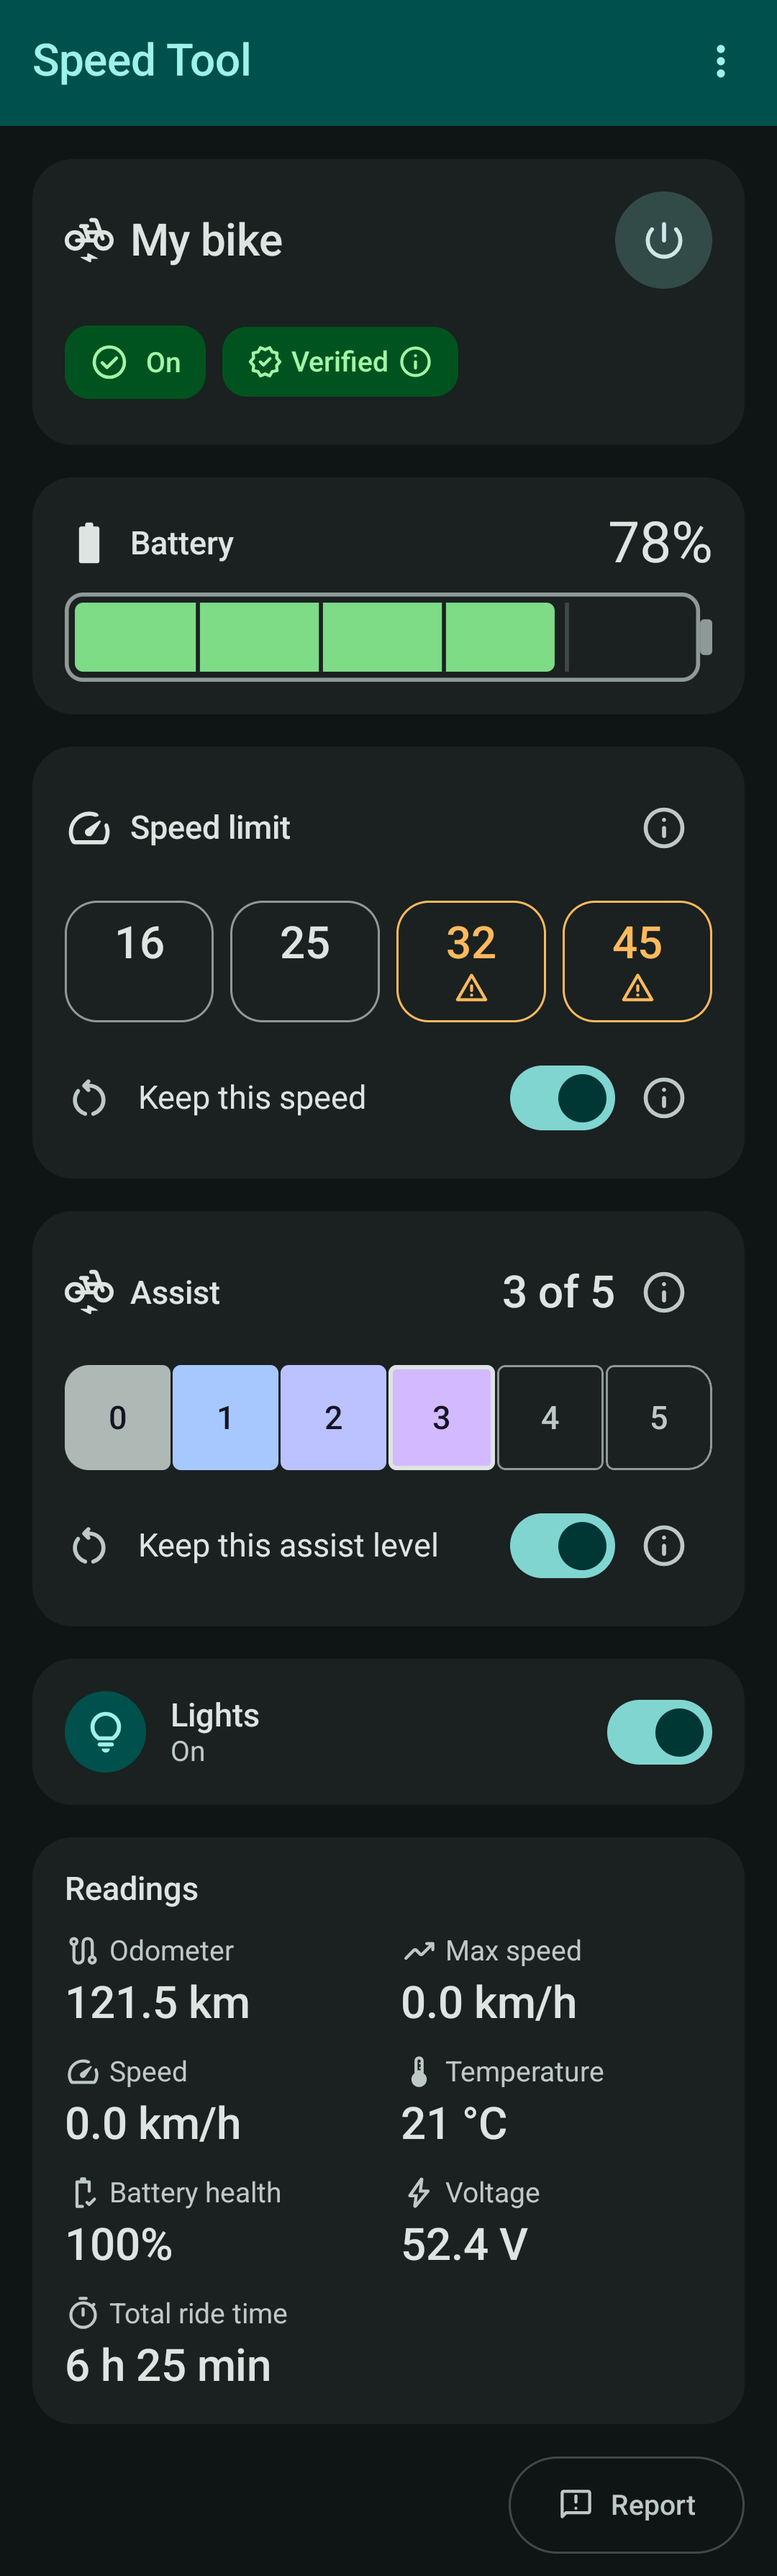
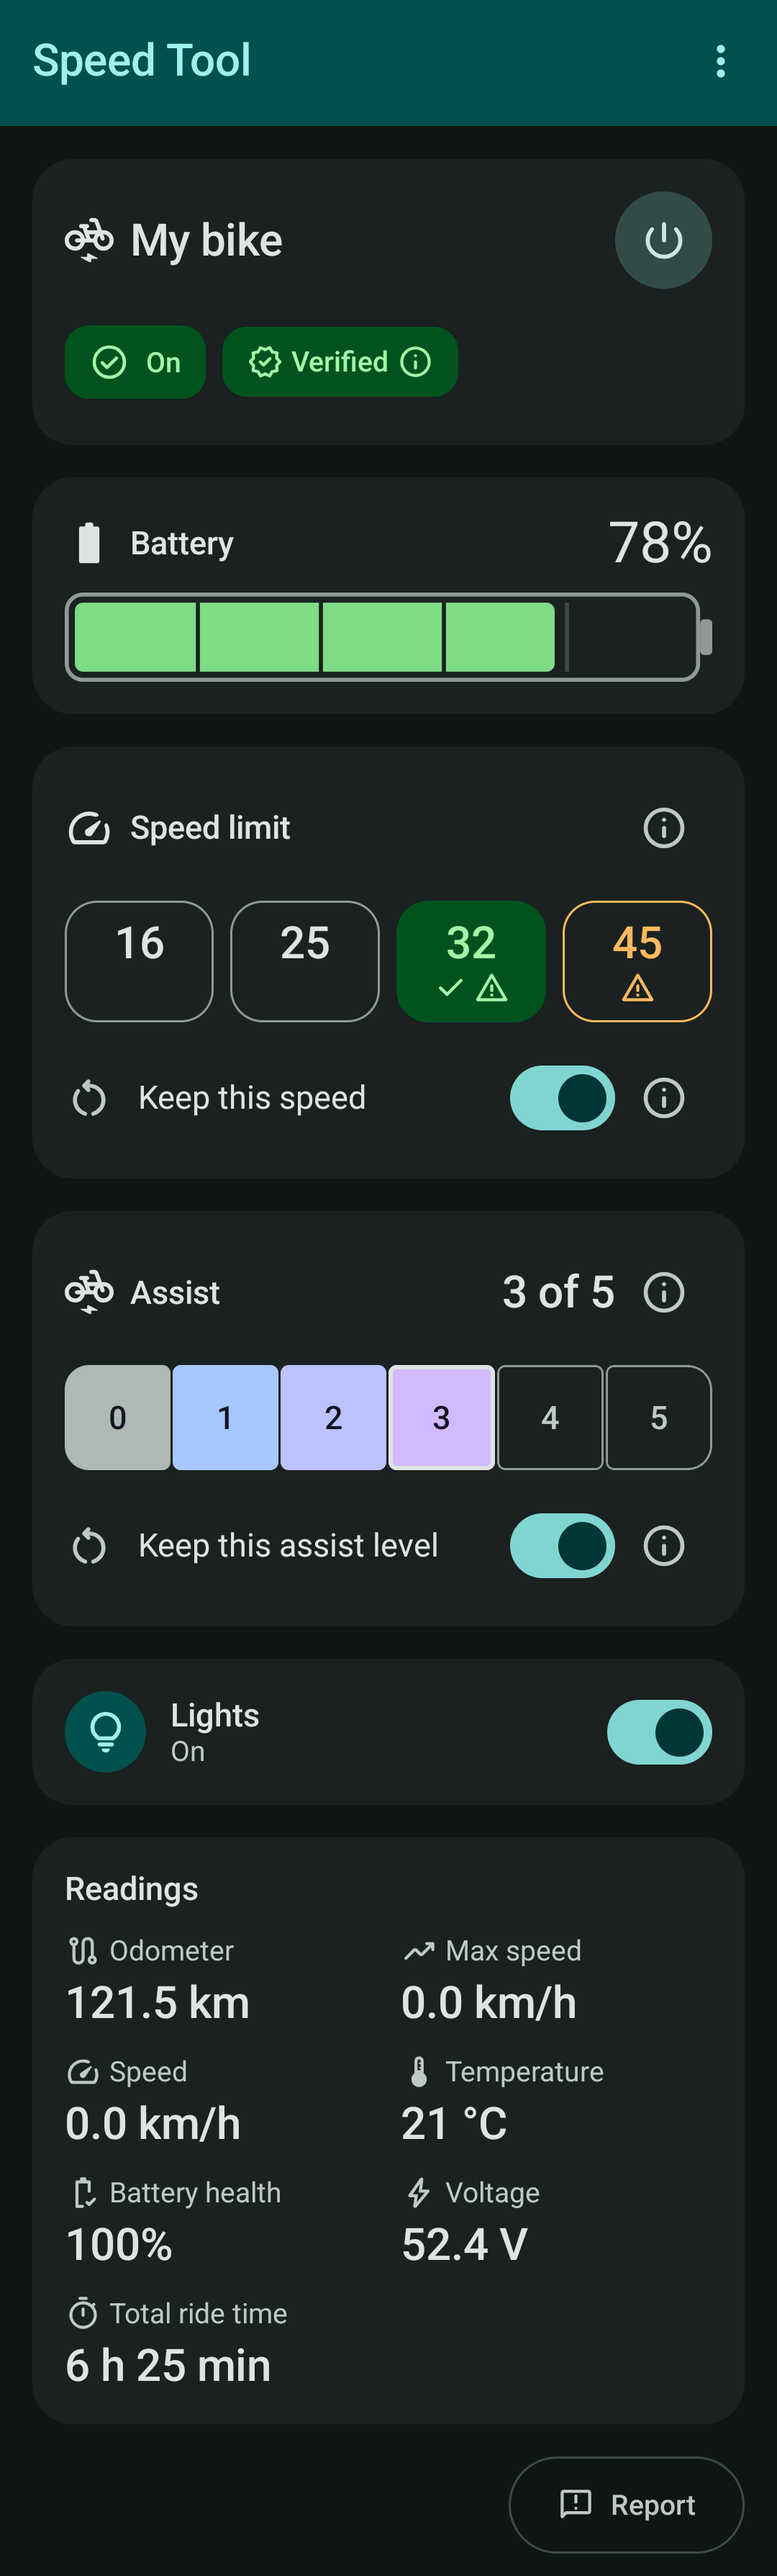
README: screenshots of 1.0.1, light and dark in the same state
Both show 32 km/h confirmed: the green box with its check mark and no line under it, as the app shows it
since 1.0.1. Joined from two phone screenshots per theme where the pixels match, with the status bar and
the gesture bar cut off, and saved without metadata.

Changed region(s): [[0.4889, 0.3413, 0.7028, 0.4033]]

diff --git a/README.md b/README.md
@@ -24,8 +24,8 @@ documents the bike's Bluetooth protocol from its own observations ([PROTOCOL.md]
 free, open, community-maintained app.
 
 <p align="center">
-  <img src="docs/images/dashboard-light.png" width="300" alt="The app's dashboard in the light theme, connected to an E26 3.0 Pro: the bike on and verified, its battery at 78 %, 32 km/h set and confirmed by the bike, assist level 3 of 5, lights on, and the bike's readings">
-  <img src="docs/images/dashboard-dark.png" width="300" alt="The dashboard in the dark theme, with the same bike and readings, before the app has set a speed on this connection, so no speed is marked">
+  <img src="docs/images/dashboard-light.png" width="300" alt="The app's dashboard in the light theme, connected to an E26 3.0 Pro: the bike on and verified, its battery at 78 %, 32 km/h set and confirmed by the bike (its box green with a check mark), assist level 3 of 5, both keep switches on, lights on, and the bike's readings">
+  <img src="docs/images/dashboard-dark.png" width="300" alt="The same dashboard in the dark theme, in the same state">
 </p>
 
 ## What it does
